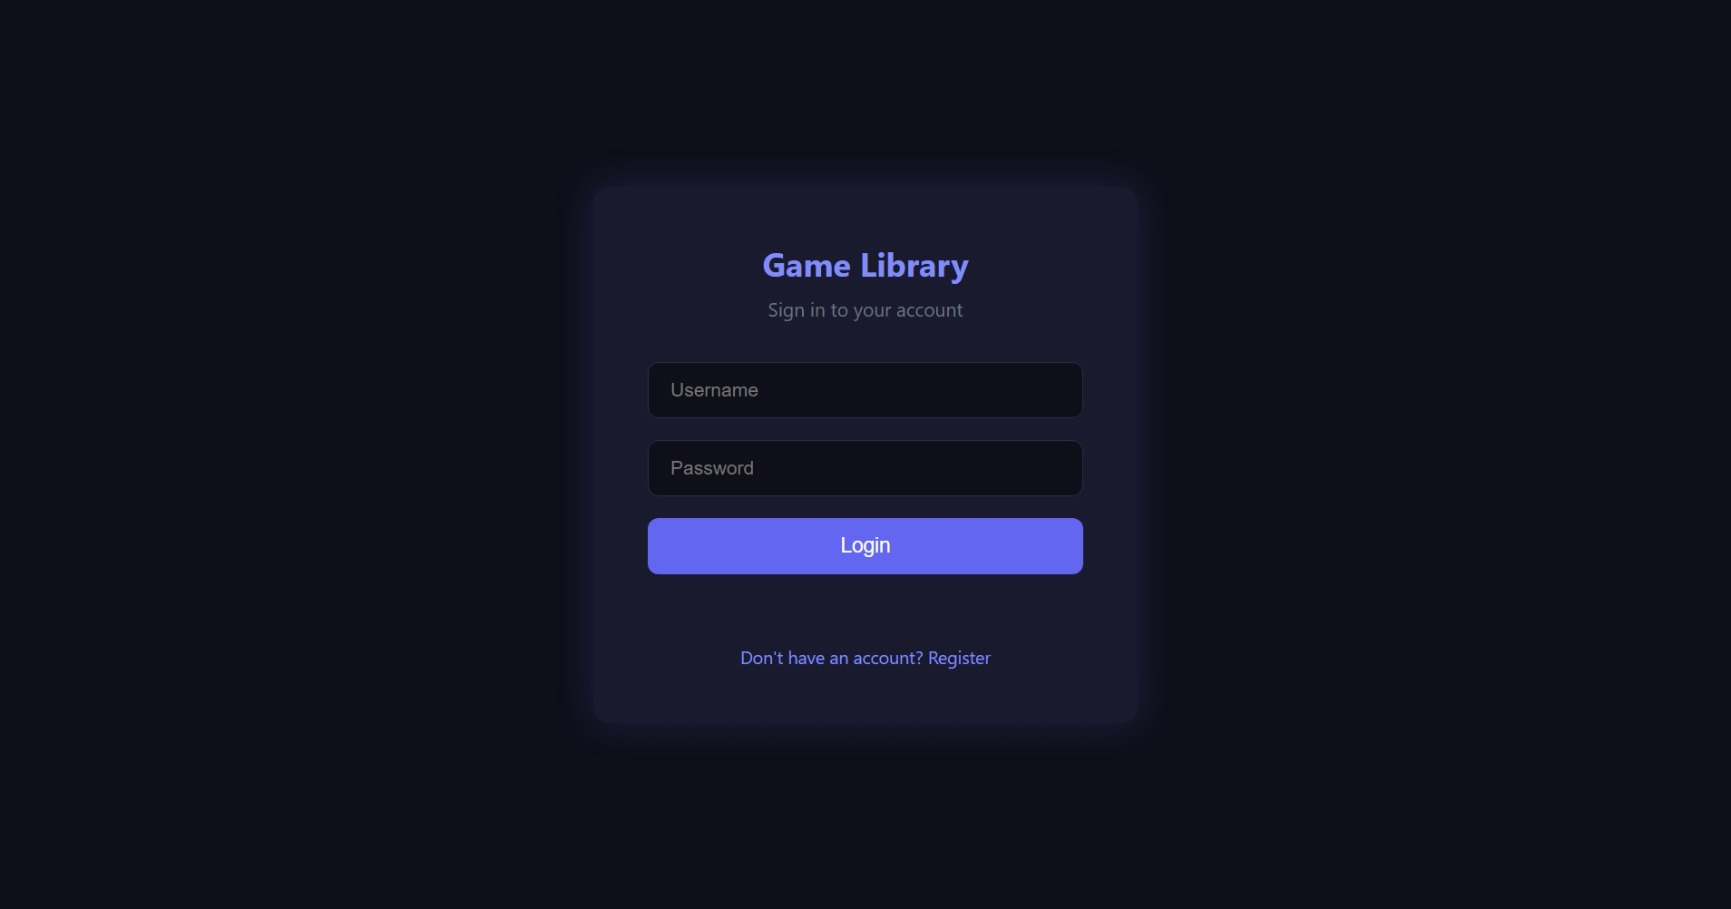
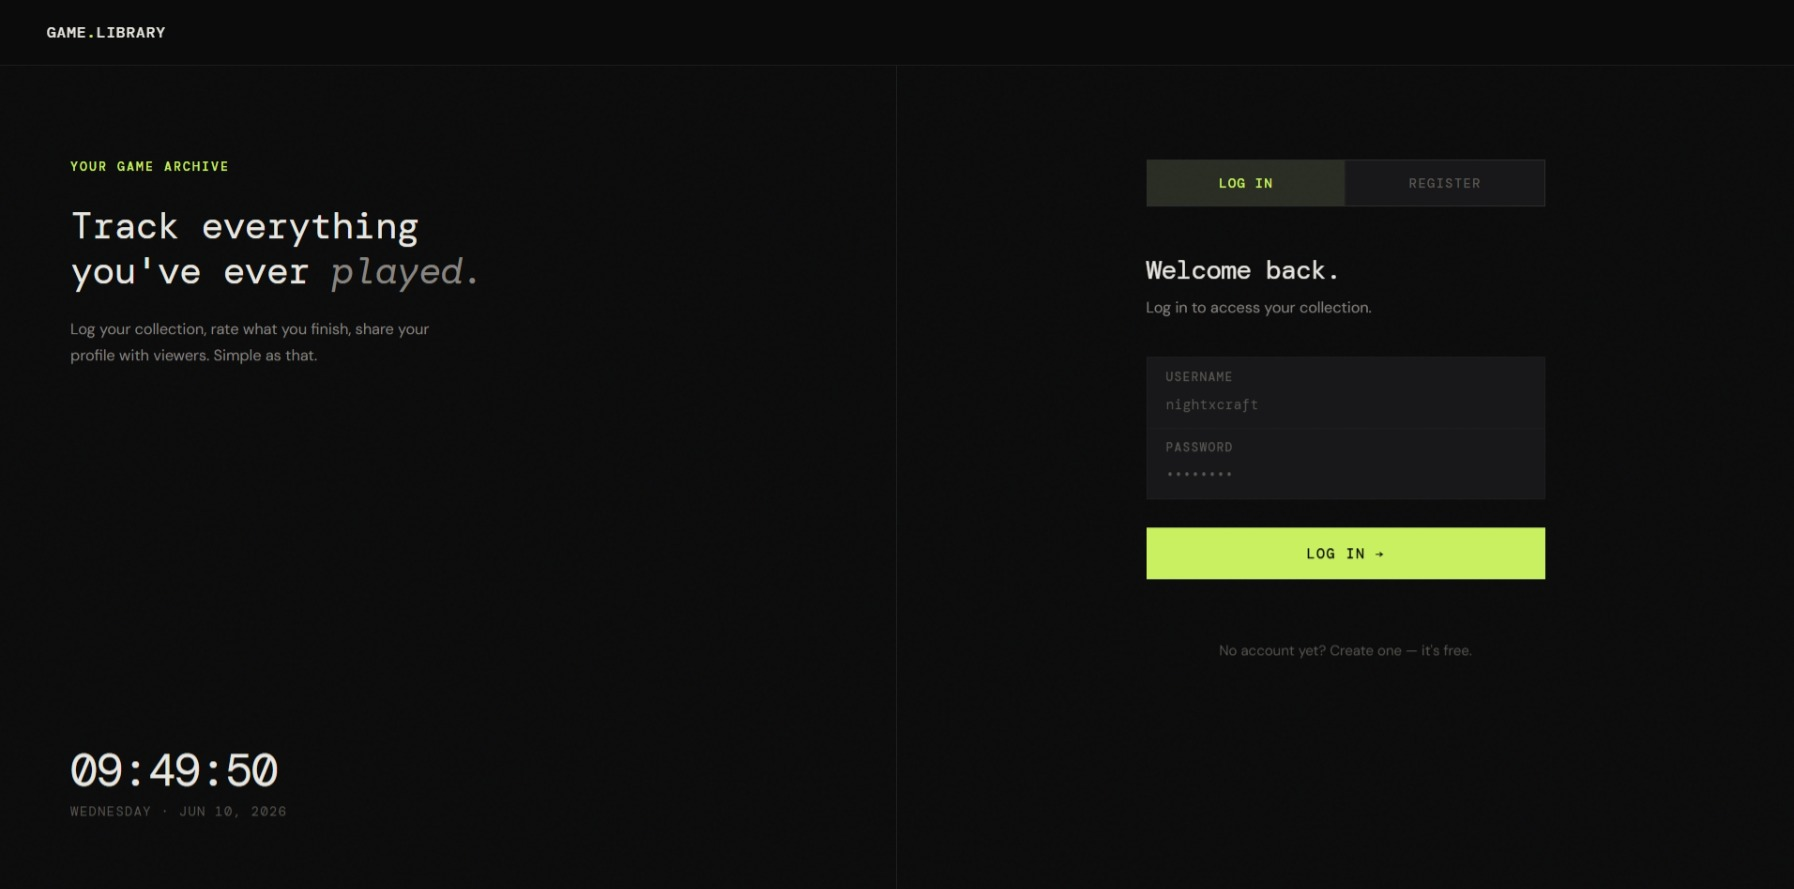
add screenshots

diff --git a/backend/src/test/java/com/gamelibrary/gamelibrary/service/UserServiceTest.java b/backend/src/test/java/com/gamelibrary/gamelibrary/service/UserServiceTest.java
@@ -14,7 +14,6 @@ import org.mockito.junit.jupiter.MockitoExtension;
 import org.springframework.data.domain.PageImpl;
 import org.springframework.security.crypto.password.PasswordEncoder;
 
-import org.mockito.ArgumentMatchers;
 import org.springframework.data.domain.Pageable;
 import static org.mockito.ArgumentMatchers.any;
 import static org.mockito.ArgumentMatchers.eq;

diff --git a/backend/src/main/java/com/gamelibrary/gamelibrary/service/ReviewService.java b/backend/src/main/java/com/gamelibrary/gamelibrary/service/ReviewService.java
@@ -13,9 +13,6 @@ import com.gamelibrary.gamelibrary.entity.User;
 import com.gamelibrary.gamelibrary.entity.Game;
 
 import java.util.List;
-
-import javax.management.RuntimeErrorException;
-
 import lombok.RequiredArgsConstructor;
 
 @Service
